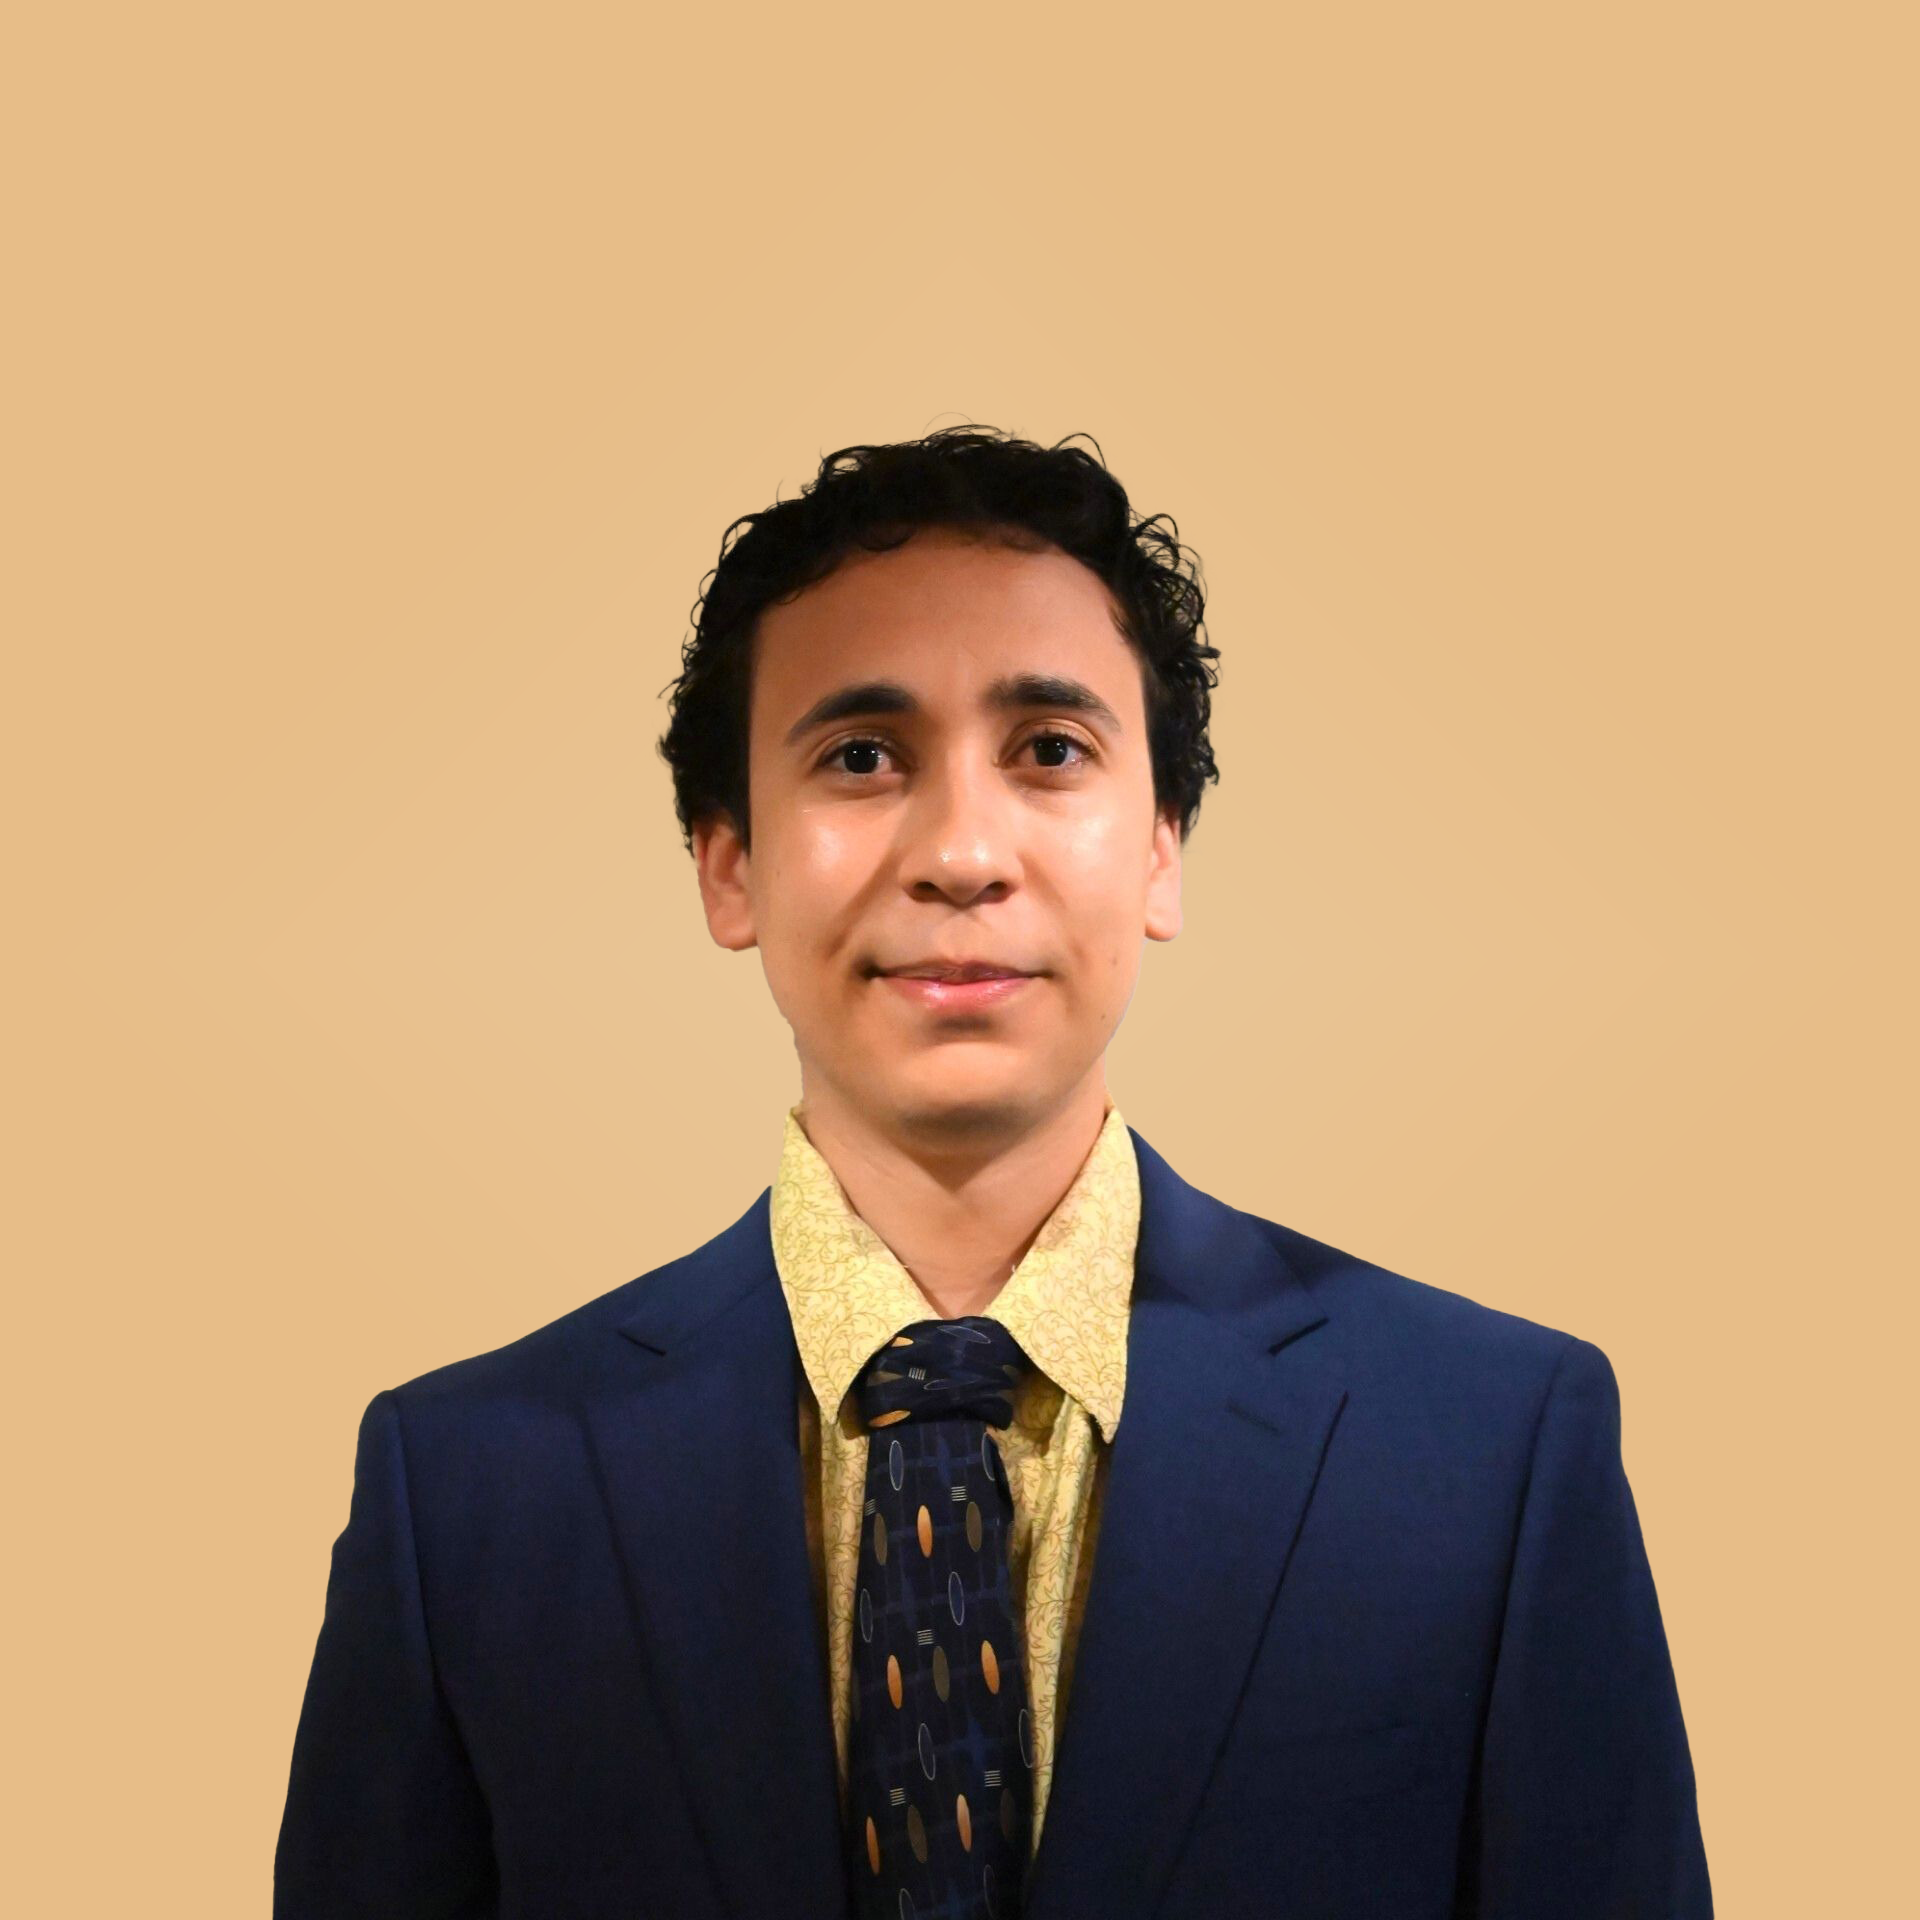
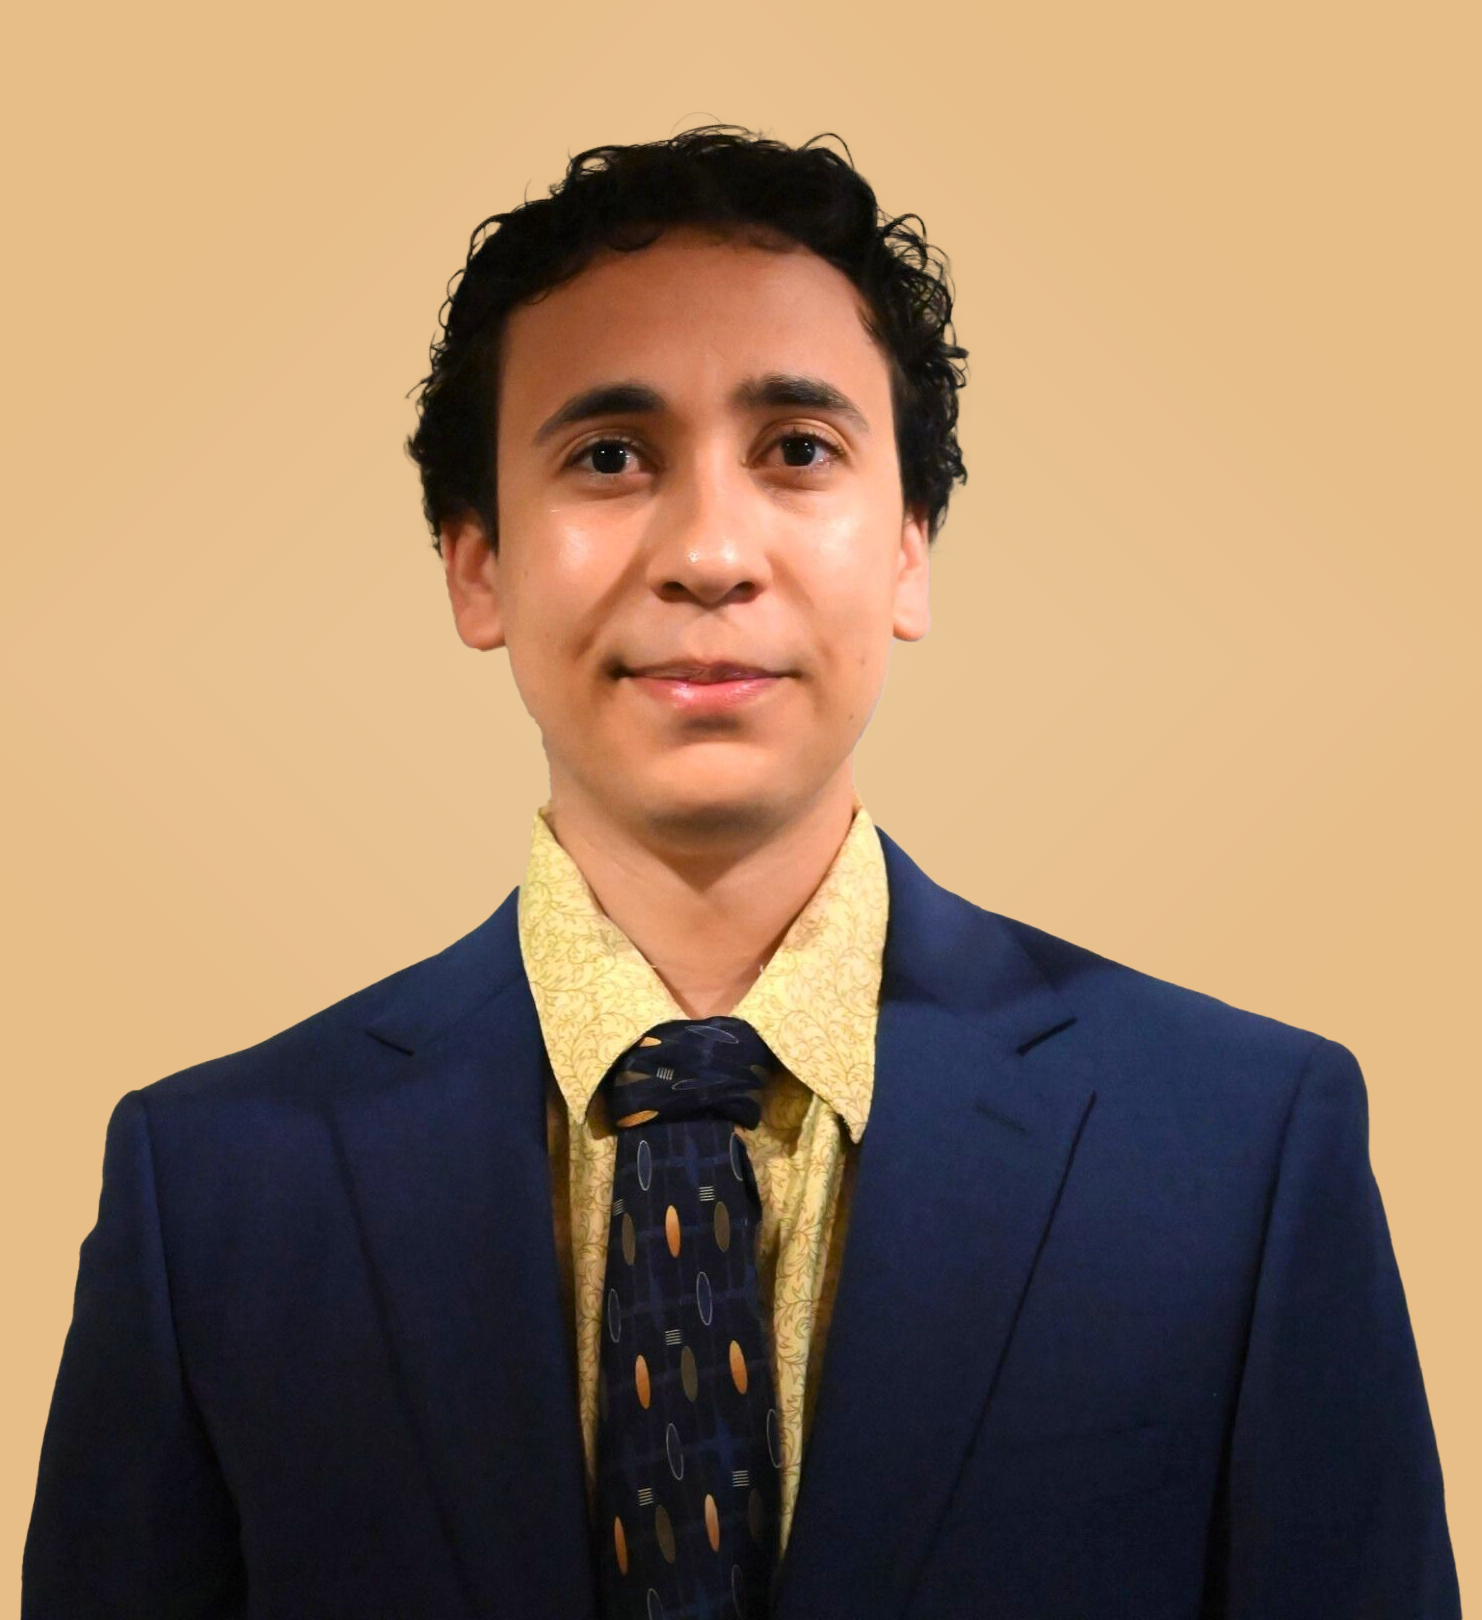
Rewrite hero/about/experience copy plainly and fix stretched headshot crop
Hero, About, and Experience headings/copy leaned too hard on a repeated
real-vs-simulated rhetorical device across three sections; replaced with
plain, factual copy per direction. Also re-crops the profile headshot,
which had ~20% empty background above the head that object-fit: cover
was cropping from the sides instead of the top, making the portrait look
off in its frame. Cropped the source image to remove the excess headroom
and updated the CSS aspect-ratio to match natively instead of fighting it.

Changed region(s): [[0.0, 0.0617, 0.9933, 1.0], [0.7449, 0.9568, 0.776, 1.0], [0.6829, 0.7407, 0.7139, 0.8025]]

diff --git a/index.html b/index.html
@@ -64,8 +64,8 @@
       <div class="hero-grid">
         <div class="hero-copy reveal">
           <p class="eyebrow">MIT Mechanical Engineering · Class of 2027</p>
-          <h1 id="hero-title">I build things, then find out if they actually work.</h1>
-          <p class="hero-statement">Right now that means equipment engineering at a semiconductor fab in Phoenix, plus MIT coursework and research in robotics, manufacturing, and propulsion. I like projects where the CAD has to survive contact with a shop, a test stand, or a field of competitors trying to break it.</p>
+          <h1 id="hero-title">Elijah Young</h1>
+          <p class="hero-statement">Mechanical engineering student working across robotics, manufacturing, and propulsion hardware. Currently an equipment engineering intern at TSMC in Phoenix, alongside coursework and research at MIT.</p>
           <p class="hero-note">Whether you're a recruiter, a fellow engineer, or someone who found this from a QR code on a robot — welcome. Everything below is real work, not filler.</p>
           <div class="hero-actions" aria-label="Primary actions">
             <a class="button button-primary" href="#work">Explore selected work</a>
@@ -81,7 +81,7 @@
 
         <div class="hero-visual reveal" aria-label="Editorial portrait and engineering notes">
           <figure class="portrait-frame">
-            <img src="assets/profile/elijah-young-headshot.png" width="1920" height="1920" alt="Portrait of Elijah Young." />
+            <img src="assets/profile/elijah-young-headshot.png" width="1482" height="1620" alt="Portrait of Elijah Young." />
             <figcaption>Design · fabrication · test</figcaption>
           </figure>
           <div class="caliper-card" aria-hidden="true">
@@ -203,7 +203,7 @@
     <section class="section experience-section" id="experience" aria-labelledby="experience-title" data-section>
       <div class="section-kicker reveal">
         <p class="eyebrow">Experience</p>
-        <h2 id="experience-title">Where I've actually worked, in order.</h2>
+        <h2 id="experience-title">Internships, research, and coursework.</h2>
       </div>
       <div class="timeline reveal">
         <article>
@@ -265,8 +265,8 @@
     <section class="section about-section" id="about" aria-labelledby="about-title" data-section>
       <div class="about-copy reveal">
         <p class="eyebrow">About</p>
-        <h2 id="about-title">I'd rather be in the shop than in a simulation.</h2>
-        <p>I'm an MIT mechanical engineering student, and my favorite projects are the ones where you can't fake it: you design something, build it, watch it fail in a new way, and go again. That loop is more or less why I keep signing up for hands-on classes and lab work instead of easier electives.</p>
+        <h2 id="about-title">Background.</h2>
+        <p>I'm a mechanical engineering student at MIT, class of 2027. My coursework and research span competition robotics, manufacturing, measurement, and propulsion hardware, and I've interned in equipment engineering at TSMC and mechanical design at Burns &amp; McDonnell. Outside of class, I spend most of my time in the shop or in lab, taking a project from CAD to a tested, working version.</p>
       </div>
       <aside class="about-note reveal" aria-label="Working principles">
         <h3>Working Notes</h3>

diff --git a/style.css b/style.css
@@ -387,9 +387,9 @@ h3 {
 
 .portrait-frame img {
   width: 100%;
-  aspect-ratio: 4 / 5;
+  aspect-ratio: 1482 / 1620;
   object-fit: cover;
-  object-position: center 18%;
+  object-position: center top;
   filter: saturate(0.9) contrast(1.02);
 }
 